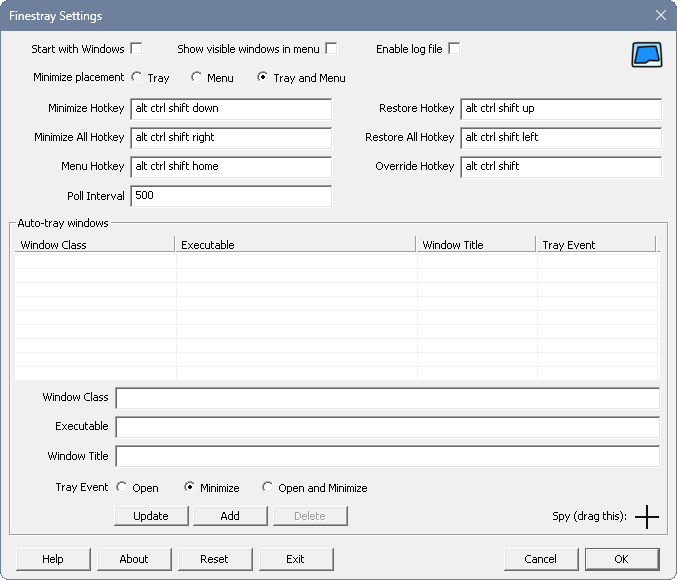
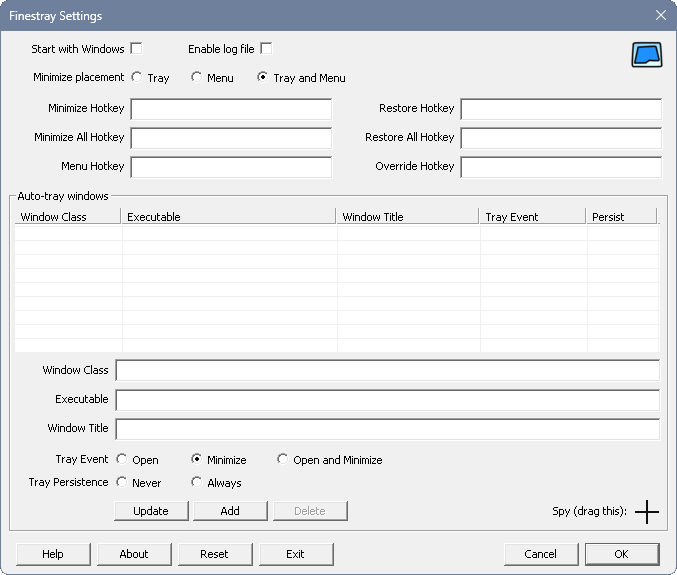
Remove show windows in menu setting

diff --git a/src/ContextMenu.cpp b/src/ContextMenu.cpp
@@ -44,22 +44,10 @@ std::vector<HWND> minimizedWindows_;
 namespace ContextMenu
 {
 
-bool show(HWND hwnd, bool showVisibleWindows)
+bool show(HWND hwnd, MinimizePlacement minimizePlacement)
 {
     visibleWindows_.clear();
     minimizedWindows_.clear();
-
-    WindowTracker::enumerate([&](const WindowTracker::Item & item) {
-        if (item.visible_) {
-            if (showVisibleWindows) {
-                visibleWindows_.push_back(item.hwnd_);
-            }
-        } else if (item.minimized_) {
-            minimizedWindows_.push_back(item.hwnd_);
-        }
-
-        return true;
-    });
 
     // create popup menu
     const MenuHandleWrapper menu(CreatePopupMenu());
@@ -82,75 +70,87 @@ bool show(HWND hwnd, bool showVisibleWindows)
 
     std::vector<BitmapHandleWrapper> bitmaps;
 
-    // add menu entries for visible windows
-    if (!visibleWindows_.empty()) {
-        for (size_t i = 0; i < visibleWindows_.size(); ++i) {
-            HWND visibleHwnd = visibleWindows_.at(i);
-            bitmaps.emplace_back(WindowIcon::bitmap(visibleHwnd));
-            if (!addMenuItemForWindow(
-                    menu,
-                    visibleHwnd,
-                    IDM_VISIBLEWINDOW_BASE + narrow_cast<unsigned int>(i),
-                    bitmaps.back())) {
+    if (minimizePlacementIncludesMenu(minimizePlacement)) {
+        WindowTracker::enumerate([&](const WindowTracker::Item & item) {
+            if (item.visible_) {
+                visibleWindows_.push_back(item.hwnd_);
+            } else if (item.minimized_) {
+                minimizedWindows_.push_back(item.hwnd_);
+            }
+
+            return true;
+        });
+
+        // add menu entries for visible windows
+        if (!visibleWindows_.empty()) {
+            for (size_t i = 0; i < visibleWindows_.size(); ++i) {
+                HWND visibleHwnd = visibleWindows_.at(i);
+                bitmaps.emplace_back(WindowIcon::bitmap(visibleHwnd));
+                if (!addMenuItemForWindow(
+                        menu,
+                        visibleHwnd,
+                        IDM_VISIBLEWINDOW_BASE + narrow_cast<unsigned int>(i),
+                        bitmaps.back())) {
+                    return false;
+                }
+            }
+
+            if (!AppendMenuA(menu, MF_SEPARATOR, 0, nullptr)) {
+                WARNING_PRINTF(
+                    "failed to create menu entry, AppendMenuA() failed: %s\n",
+                    StringUtility::lastErrorString().c_str());
+                return false;
+            }
+
+            if (!AppendMenuA(menu, MF_STRING, IDM_MINIMIZE_ALL, getResourceString(IDS_MENU_MINIMIZE_ALL).c_str())) {
+                WARNING_PRINTF(
+                    "failed to create menu entry, AppendMenuA() failed: %s\n",
+                    StringUtility::lastErrorString().c_str());
+                return false;
+            }
+
+            if (!AppendMenuA(menu, MF_SEPARATOR, 0, nullptr)) {
+                WARNING_PRINTF(
+                    "failed to create menu entry, AppendMenuA() failed: %s\n",
+                    StringUtility::lastErrorString().c_str());
                 return false;
             }
         }
 
-        if (!AppendMenuA(menu, MF_SEPARATOR, 0, nullptr)) {
-            WARNING_PRINTF(
-                "failed to create menu entry, AppendMenuA() failed: %s\n",
-                StringUtility::lastErrorString().c_str());
-            return false;
-        }
+        // add menu entries for minimized windows
+        if (!minimizedWindows_.empty()) {
+            for (size_t i = 0; i < minimizedWindows_.size(); ++i) {
+                HWND minimizedHwnd = minimizedWindows_.at(i);
+                bitmaps.emplace_back(WindowIcon::bitmap(minimizedHwnd));
+                if (!addMenuItemForWindow(
+                        menu,
+                        minimizedHwnd,
+                        IDM_MINIMIZEDWINDOW_BASE + narrow_cast<unsigned int>(i),
+                        bitmaps.back())) {
+                    return false;
+                }
+            }
 
-        if (!AppendMenuA(menu, MF_STRING, IDM_MINIMIZE_ALL, getResourceString(IDS_MENU_MINIMIZE_ALL).c_str())) {
-            WARNING_PRINTF(
-                "failed to create menu entry, AppendMenuA() failed: %s\n",
-                StringUtility::lastErrorString().c_str());
-            return false;
-        }
-
-        if (!AppendMenuA(menu, MF_SEPARATOR, 0, nullptr)) {
-            WARNING_PRINTF(
-                "failed to create menu entry, AppendMenuA() failed: %s\n",
-                StringUtility::lastErrorString().c_str());
-            return false;
-        }
-    }
-
-    // add menu entries for minimized windows
-    if (!minimizedWindows_.empty()) {
-        for (size_t i = 0; i < minimizedWindows_.size(); ++i) {
-            HWND minimizedHwnd = minimizedWindows_.at(i);
-            bitmaps.emplace_back(WindowIcon::bitmap(minimizedHwnd));
-            if (!addMenuItemForWindow(
-                    menu,
-                    minimizedHwnd,
-                    IDM_MINIMIZEDWINDOW_BASE + narrow_cast<unsigned int>(i),
-                    bitmaps.back())) {
+            if (!AppendMenuA(menu, MF_SEPARATOR, 0, nullptr)) {
+                WARNING_PRINTF(
+                    "failed to create menu entry, AppendMenuA() failed: %s\n",
+                    StringUtility::lastErrorString().c_str());
                 return false;
             }
-        }
 
-        if (!AppendMenuA(menu, MF_SEPARATOR, 0, nullptr)) {
-            WARNING_PRINTF(
-                "failed to create menu entry, AppendMenuA() failed: %s\n",
-                StringUtility::lastErrorString().c_str());
-            return false;
-        }
+            if (!AppendMenuA(menu, MF_STRING, IDM_RESTORE_ALL, getResourceString(IDS_MENU_RESTORE_ALL).c_str())) {
+                WARNING_PRINTF(
+                    "failed to create menu entry, AppendMenuA() failed: %s\n",
+                    StringUtility::lastErrorString().c_str());
+                return false;
+            }
 
-        if (!AppendMenuA(menu, MF_STRING, IDM_RESTORE_ALL, getResourceString(IDS_MENU_RESTORE_ALL).c_str())) {
-            WARNING_PRINTF(
-                "failed to create menu entry, AppendMenuA() failed: %s\n",
-                StringUtility::lastErrorString().c_str());
-            return false;
-        }
-
-        if (!AppendMenuA(menu, MF_SEPARATOR, 0, nullptr)) {
-            WARNING_PRINTF(
-                "failed to create menu entry, AppendMenuA() failed: %s\n",
-                StringUtility::lastErrorString().c_str());
-            return false;
+            if (!AppendMenuA(menu, MF_SEPARATOR, 0, nullptr)) {
+                WARNING_PRINTF(
+                    "failed to create menu entry, AppendMenuA() failed: %s\n",
+                    StringUtility::lastErrorString().c_str());
+                return false;
+            }
         }
     }
 

diff --git a/src/Settings.cpp b/src/Settings.cpp
@@ -46,7 +46,6 @@ enum SettingKeys : unsigned int
 {
     SK_Version,
     SK_StartWithWindows,
-    SK_ShowWindowsInMenu,
     SK_LogToFile,
     SK_MinimizePlacement,
     SK_Executable,
@@ -67,7 +66,6 @@ enum SettingKeys : unsigned int
 
 constexpr unsigned int versionCurrent_ = 1;
 constexpr bool startWithWindowsDefault_ = false;
-constexpr bool showWindowsInMenuDefault_ = false;
 constexpr bool logToFileDefault_ = false;
 constexpr MinimizePlacement minimizePlacementDefault_ = MinimizePlacement::TrayAndMenu;
 constexpr char hotkeyMinimizeDefault_[] = "alt ctrl shift down";
@@ -78,7 +76,6 @@ constexpr char hotkeyMenuDefault_[] = "alt ctrl shift home";
 constexpr char modifiersOverrideDefault_[] = "alt ctrl shift";
 const char * settingKeys_[SK_Count] = { "version",
                                         "start-with-windows",
-                                        "show-windows-in-menu",
                                         "log-to-file",
                                         "minimize-placement",
                                         "executable",
@@ -100,7 +97,6 @@ void Settings::initDefaults()
 {
     version_ = versionCurrent_;
     startWithWindows_ = startWithWindowsDefault_;
-    showWindowsInMenu_ = showWindowsInMenuDefault_;
     logToFile_ = logToFileDefault_;
     minimizePlacement_ = minimizePlacementDefault_;
     hotkeyMinimize_ = hotkeyMinimizeDefault_;
@@ -124,7 +120,6 @@ bool Settings::fromJSON(const std::string & json)
 
     version_ = narrow_cast<unsigned int>(getNumber(cjson, settingKeys_[SK_Version], static_cast<double>(versionCurrent_)));
     startWithWindows_ = getBool(cjson, settingKeys_[SK_StartWithWindows], startWithWindows_);
-    showWindowsInMenu_ = getBool(cjson, settingKeys_[SK_ShowWindowsInMenu], showWindowsInMenu_);
     logToFile_ = getBool(cjson, settingKeys_[SK_LogToFile], logToFile_);
 
     const std::string & minimizePlacementString =
@@ -166,10 +161,6 @@ std::string Settings::toJSON() const
     }
 
     if (!cJSON_AddBoolToObject(cjson, settingKeys_[SK_StartWithWindows], startWithWindows_)) {
-        fail = true;
-    }
-
-    if (!cJSON_AddBoolToObject(cjson, settingKeys_[SK_ShowWindowsInMenu], showWindowsInMenu_)) {
         fail = true;
     }
 
@@ -338,7 +329,6 @@ void Settings::dump() const noexcept
     DEBUG_PRINTF("Settings:\n");
     DEBUG_PRINTF("\t%s: %u\n", settingKeys_[SK_Version], version_);
     DEBUG_PRINTF("\t%s: %s\n", settingKeys_[SK_StartWithWindows], StringUtility::boolToCString(startWithWindows_));
-    DEBUG_PRINTF("\t%s: %s\n", settingKeys_[SK_ShowWindowsInMenu], StringUtility::boolToCString(showWindowsInMenu_));
     DEBUG_PRINTF("\t%s: %s\n", settingKeys_[SK_LogToFile], StringUtility::boolToCString(logToFile_));
     DEBUG_PRINTF("\t%s: %s\n", settingKeys_[SK_MinimizePlacement], minimizePlacementToCString(minimizePlacement_));
     DEBUG_PRINTF("\t%s: '%s'\n", settingKeys_[SK_HotkeyMinimize], hotkeyMinimize_.c_str());

diff --git a/src/Resource.h b/src/Resource.h
@@ -70,30 +70,29 @@
 #define IDC_MINIMIZE_PLACEMENT_MENU              1002
 #define IDC_MINIMIZE_PLACEMENT_TRAY_AND_MENU     1003
 #define IDC_START_WITH_WINDOWS                   1004
-#define IDC_SHOW_WINDOWS_IN_MENU                 1005
-#define IDC_LOG_TO_FILE                          1006
-#define IDC_HOTKEY_MINIMIZE                      1007
-#define IDC_HOTKEY_MINIMIZE_ALL                  1008
-#define IDC_HOTKEY_RESTORE                       1009
-#define IDC_HOTKEY_RESTORE_ALL                   1010
-#define IDC_HOTKEY_MENU                          1011
-#define IDC_MODIFIER_OVERRIDE                    1012
-#define IDC_AUTO_TRAY_LIST                       1013
-#define IDC_AUTO_TRAY_EDIT_WINDOWCLASS           1014
-#define IDC_AUTO_TRAY_EDIT_EXECUTABLE            1015
-#define IDC_AUTO_TRAY_EDIT_WINDOWTITLE           1016
-#define IDC_AUTO_TRAY_EVENT_OPEN                 1017
-#define IDC_AUTO_TRAY_EVENT_MINIMIZE             1018
-#define IDC_AUTO_TRAY_EVENT_OPEN_AND_MINIMIZE    1019
-#define IDC_AUTO_TRAY_PERSIST_NEVER              1020
-#define IDC_AUTO_TRAY_PERSIST_ALWAYS             1021
-#define IDC_AUTO_TRAY_ITEM_UPDATE                1022
-#define IDC_AUTO_TRAY_ITEM_ADD                   1023
-#define IDC_AUTO_TRAY_ITEM_DELETE                1024
-#define IDC_AUTO_TRAY_ITEM_SPY                   1025
-#define IDC_HELP_PAGE                            1026
-#define IDC_ABOUT                                1027
-#define IDC_RESET                                1028
-#define IDC_EXIT                                 1029
+#define IDC_LOG_TO_FILE                          1005
+#define IDC_HOTKEY_MINIMIZE                      1006
+#define IDC_HOTKEY_MINIMIZE_ALL                  1007
+#define IDC_HOTKEY_RESTORE                       1008
+#define IDC_HOTKEY_RESTORE_ALL                   1019
+#define IDC_HOTKEY_MENU                          1010
+#define IDC_MODIFIER_OVERRIDE                    1011
+#define IDC_AUTO_TRAY_LIST                       1012
+#define IDC_AUTO_TRAY_EDIT_WINDOWCLASS           1013
+#define IDC_AUTO_TRAY_EDIT_EXECUTABLE            1014
+#define IDC_AUTO_TRAY_EDIT_WINDOWTITLE           1015
+#define IDC_AUTO_TRAY_EVENT_OPEN                 1016
+#define IDC_AUTO_TRAY_EVENT_MINIMIZE             1017
+#define IDC_AUTO_TRAY_EVENT_OPEN_AND_MINIMIZE    1018
+#define IDC_AUTO_TRAY_PERSIST_NEVER              1029
+#define IDC_AUTO_TRAY_PERSIST_ALWAYS             1020
+#define IDC_AUTO_TRAY_ITEM_UPDATE                1021
+#define IDC_AUTO_TRAY_ITEM_ADD                   1022
+#define IDC_AUTO_TRAY_ITEM_DELETE                1023
+#define IDC_AUTO_TRAY_ITEM_SPY                   1024
+#define IDC_HELP_PAGE                            1025
+#define IDC_ABOUT                                1026
+#define IDC_RESET                                1027
+#define IDC_EXIT                                 1028
 
 // clang-format on

diff --git a/src/SettingsDialog.cpp b/src/SettingsDialog.cpp
@@ -160,7 +160,6 @@ INT_PTR settingsDialogFunc(HWND dialogHwnd, UINT message, WPARAM wParam, LPARAM 
     switch (message) {
         case WM_INITDIALOG: {
             checkDlgButtonSafe(dialogHwnd, IDC_START_WITH_WINDOWS, settings_.startWithWindows_);
-            checkDlgButtonSafe(dialogHwnd, IDC_SHOW_WINDOWS_IN_MENU, settings_.showWindowsInMenu_);
             checkDlgButtonSafe(dialogHwnd, IDC_LOG_TO_FILE, settings_.logToFile_);
 
             int checkButtonId = IDC_MINIMIZE_PLACEMENT_TRAY_AND_MENU;
@@ -221,12 +220,6 @@ INT_PTR settingsDialogFunc(HWND dialogHwnd, UINT message, WPARAM wParam, LPARAM 
                 switch (LOWORD(wParam)) {
                     case IDC_START_WITH_WINDOWS: {
                         settings_.startWithWindows_ = IsDlgButtonChecked(dialogHwnd, IDC_START_WITH_WINDOWS) ==
-                            BST_CHECKED;
-                        break;
-                    }
-
-                    case IDC_SHOW_WINDOWS_IN_MENU: {
-                        settings_.showWindowsInMenu_ = IsDlgButtonChecked(dialogHwnd, IDC_SHOW_WINDOWS_IN_MENU) ==
                             BST_CHECKED;
                         break;
                     }

diff --git a/src/Finestray.cpp b/src/Finestray.cpp
@@ -409,7 +409,7 @@ LRESULT wndProc(HWND hwnd, UINT uMsg, WPARAM wParam, LPARAM lParam)
                     if (contextMenuActive_) {
                         WARNING_PRINTF("context menu already active, ignoring hotkey\n");
                     } else {
-                        if (!ContextMenu::show(hwnd, settings_.showWindowsInMenu_)) {
+                        if (!ContextMenu::show(hwnd, settings_.minimizePlacement_)) {
                             errorMessage(IDS_ERROR_CREATE_MENU);
                         }
                     }
@@ -433,7 +433,7 @@ LRESULT wndProc(HWND hwnd, UINT uMsg, WPARAM wParam, LPARAM lParam)
                     if (contextMenuActive_) {
                         WARNING_PRINTF("context menu already active, ignoring\n");
                     } else {
-                        if (!ContextMenu::show(hwnd, settings_.showWindowsInMenu_)) {
+                        if (!ContextMenu::show(hwnd, settings_.minimizePlacement_)) {
                             errorMessage(IDS_ERROR_CREATE_MENU);
                         }
                     }

diff --git a/src/ContextMenu.h b/src/ContextMenu.h
@@ -33,7 +33,7 @@ constexpr WORD IDM_EXIT = 0x1004;
 constexpr WORD IDM_MINIMIZE_ALL = 0x1005;
 constexpr WORD IDM_RESTORE_ALL = 0x1006;
 
-bool show(HWND hwnd, bool showVisibleWindows);
+bool show(HWND hwnd, MinimizePlacement minimizePlacement);
 HWND getMinimizedWindow(unsigned int id);
 HWND getVisibleWindow(unsigned int id);
 

diff --git a/src/Settings.h b/src/Settings.h
@@ -60,7 +60,6 @@ public:
 
     unsigned int version_ {};
     bool startWithWindows_ {};
-    bool showWindowsInMenu_ {};
     bool logToFile_ {};
     MinimizePlacement minimizePlacement_ {};
     std::string hotkeyMinimize_;

diff --git a/README.md b/README.md
@@ -75,21 +75,24 @@ From the context menu, you can select one of the menu items:
 
 - **Finestray**:
   Shows a some basic information about Finestray.
-- **Minimize all**
-  Minimizes all windows to the tray. This menu item will only be available if there are un-minimized windows.
-- **Restore all**
-  Restores all minimized windows to their original states. This menu item will only be available if there are minimized
-  windows.
 - **Settings**:
   Shows the [Settings](#settings) window.
 - **Exit**:
   Exits the Finestray application.
 
-If your `Minimize placement` is set to `Menu` or `Tray and Menu`, then minimized windows will be listed in the context
-menu. You can click on these items to restore the corresponding window to its original location.
+Additionally, if your `Minimize placement` is set to `Menu` or `Tray and Menu`, then these menu items may also be
+available:
 
-If `Show windows in menu` is enabled, then non-minimized windows will be listed in the context menu, and you can click
-on these items to minimize the corresponding window to the tray.
+- **List of minimized windows**
+  You can click on these items to restore the corresponding window to its original location.
+- **Minimize all**
+  Minimizes all windows to the tray. This menu item will only be available if there are un-minimized windows listed in
+  the context menu.
+- **List of non-minimized windows**
+  You can click on these items to minimize the corresponding window to the tray.
+- **Restore all**
+  Restores all minimized windows to their original states. This menu item will only be available if there are minimized
+  windows listed in the context menu.
 
 ## Settings
 
@@ -106,9 +109,6 @@ The available settings correspond to some of the above features. The settings ar
   startup folder (`shell:Startup`, typically
   `C:\Users\Your-Name\AppData\Roaming\Microsoft\Windows\Start Menu\Programs\Startup`) which which launches the Finestray
   executable.
-- **Show windows in menu**:
-  This toggles whether Finestray will add entries in the [Context menu](#context-menu) for windows that are not
-  minimized.
 - **Enable log file**:
   This toggles whether Finestray saves logging information to a file or not. If enabled, Finestray first tries to save
   the log file to `%LOCALAPPDATA%\\Finestray\\Finestray.log`, and if that's not possible it saves in the same location
@@ -116,8 +116,8 @@ The available settings correspond to some of the above features. The settings ar
 - **Minimize placement**:
   This controls where to place minimized windows minimized using Finestray. The choices are:
   - **Tray**: the window will get an icon in the tray.
-  - **Menu**: the window will get an entry in the context menu.
-  - **Tray and Menu**: the window will get an icon in the tray and an entry in the context menu.
+  - **Menu**: the window will get an entry in the [Context menu](#context-menu).
+  - **Tray and Menu**: the window will get an icon in the tray and an entry in the [Context menu](#context-menu).
 - **Minimize hotkey**:
   This lets you configure the hotkey that is used to minimize a window to the tray. Please see the
   [Modifiers and Hotkeys](#modifiers-and-hotkeys) section for more information.
